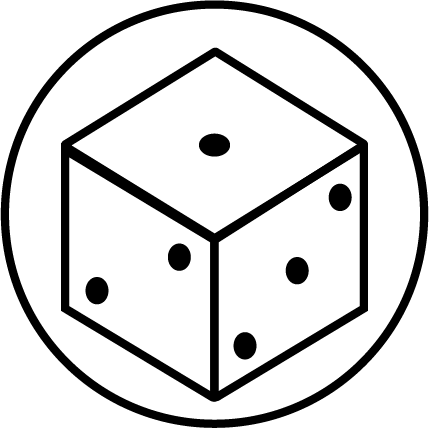
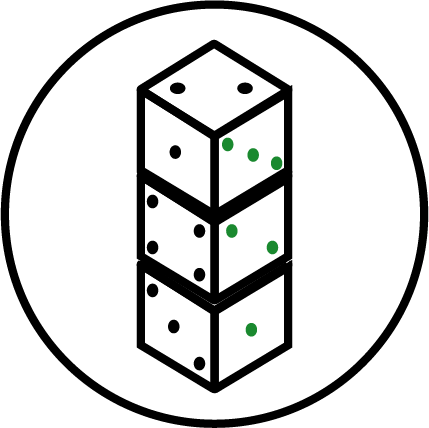
update descriptions

Changed region(s): [[0.1212, 0.0911, 0.8788, 0.9416], [0.3939, 0.729, 0.4242, 0.7897], [0.3939, 0.3341, 0.4242, 0.3949]]

diff --git a/src/App.jsx b/src/App.jsx
@@ -178,7 +178,7 @@ function App() {
       <ChallengeTemplate
         heading="Ultimate Game Showdown"
         bgColor="#94b14f"
-        description="Find a stranger and challenge them to a game of your choosing. The first team member to win two out of three rounds moves on. Each team member must face a new opponent, and no game type can be repeated across your team!"
+        description="Find a stranger and challenge them to a game of your choosing. Once a team member wins two out of three rounds they're done. Each team member must face a new opponent, and no game type can be repeated across your team!"
         value="2"
         sourceOne="/Amazing-Race/scissors-icon.png"
         sourceTwo="/Amazing-Race/paper-icon.png"
@@ -237,7 +237,7 @@ function App() {
         sourceTwo="/Amazing-Race/face-icon.png"
         sourceThree="/Amazing-Race/money-canvas.png"
         bgColor="#4489ce"
-        description="Team members have to draw a passerby in exchange for an item or money. The catch is that the person being drawn must agree to accept the artwork and give something in return! Be sure to take a photo of the person with their sketch."
+        description="Team members have to draw a passerby in exchange for an item or money (paperclip, gum etc.) The catch is that the person being drawn must agree to accept the artwork and give something in return! Be sure to take a photo of the person with their sketch."
         value="1"
         onClick={() => handleClick(5)}
         handleBack={updateEnvelope}
@@ -253,7 +253,7 @@ function App() {
         image="/Amazing-Race/lady.webp"
         bgColor="#ba5b34"
         description="Within the confines of a fence, fueled by laughter and play. 
-    You'll find children of plenty, in chaos, perhaps dismay. At the feet of a female statue, that watches over this place. Complete the puzzle you chose, at the start of this race."
+    You'll find children of plenty, in chaos, perhaps dismay. At the feet of a female statue, that watches over this place. Complete the puzzle you chose, at the start of this race. *A hint is in the name"
         value="1"
         onClick={() => handleClick(6)}
         handleBack={updateEnvelope}
@@ -267,7 +267,7 @@ function App() {
         sourceTwo="/Amazing-Race/chopsticks-icon.png"
         sourceThree="/Amazing-Race/dice-icon.png"
         bgColor="#ba5b34"
-        description="I gave up making more riddles. Run to the Picnic House. Using chopsticks provided stack all 6 dice in a tower formation. One side of the tower must show 1, 2, 3, 4, 5, 6 from bottom to top."
+        description="I gave up making more riddles. Run to the Picnic House. Using the chopsticks provided stack all 6 dice in a single tower formation. One side of the tower must show 1, 2, 3, 4, 5, 6 from bottom to top."
         value="1"
         onClick={() => handleClick(7)}
         handleBack={updateEnvelope}

diff --git a/src/App.css b/src/App.css
@@ -23,7 +23,7 @@ body {
   display: flex;
   align-items: flex-start;
   justify-content: center;
-  padding-top: 80px;
+  padding-top: 40px;
 }
 
 .main {